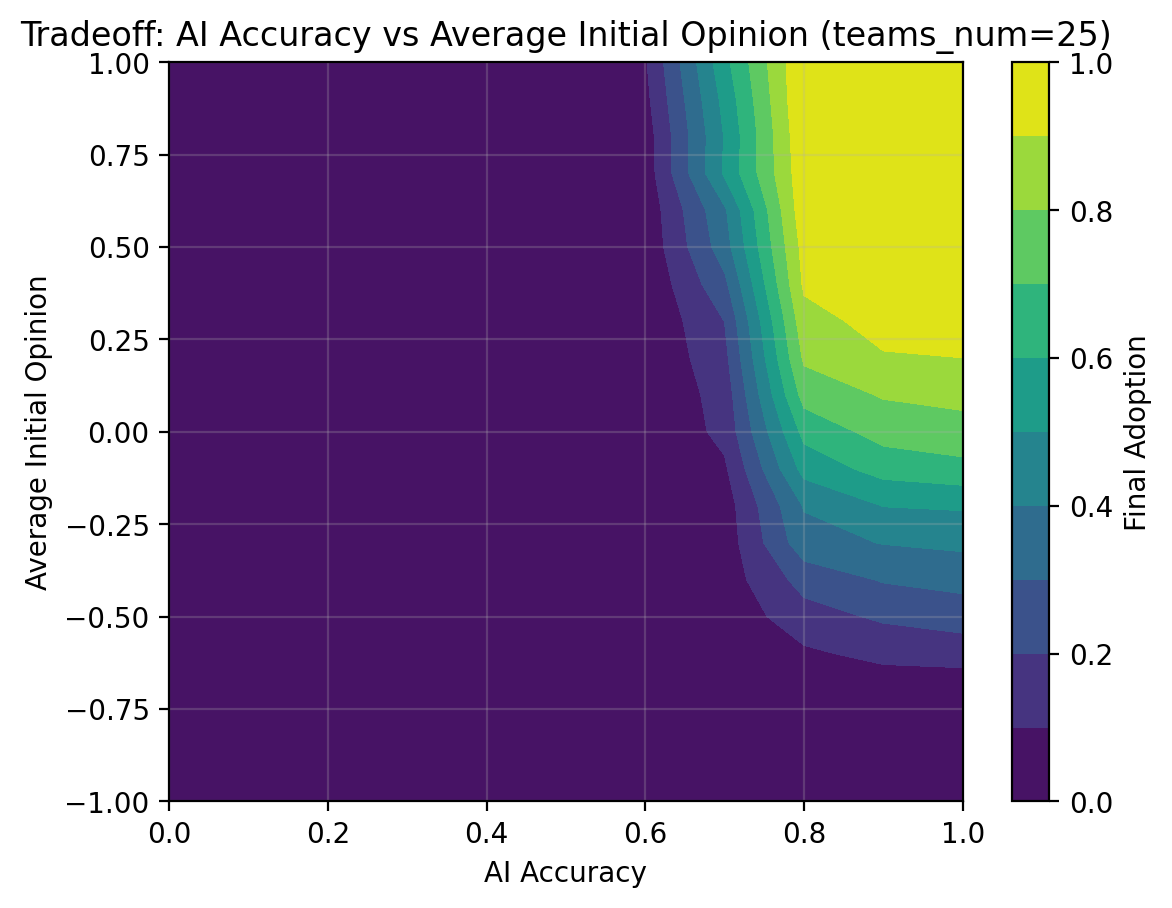
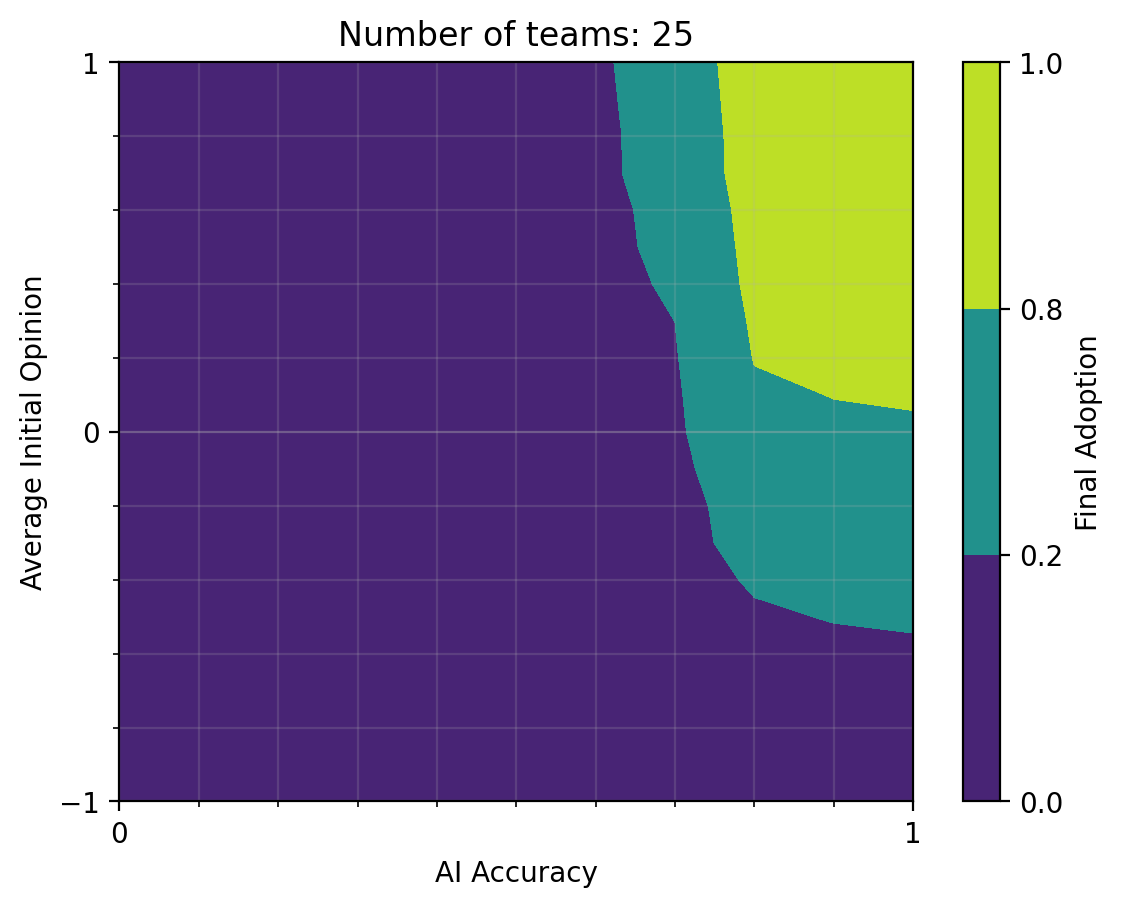
figures updated.

diff --git a/tradeoff.py b/tradeoff.py
@@ -45,6 +45,7 @@ from pathlib import Path
 import numpy as np
 import pandas as pd
 import matplotlib.pyplot as plt
+from matplotlib.ticker import MultipleLocator
 
 from utils import BASE_DIR, load_settings, get_all_model_names
 from config import teams_num_list
@@ -161,13 +162,36 @@ def plot_tradeoff_iso_adoption(
         X, Y = np.meshgrid(x_vals, y_vals)
 
         plt.figure()
-        color_levels = np.linspace(0.0, 1.0, 11)
+        #color_levels = np.linspace(0.0, 1.0, 11)
+        color_levels = np.array([0.0, 0.2, 0.8, 1.0])
         cf = plt.contourf(X, Y, Z, levels=color_levels, vmin=0.0, vmax=1.0)
 
         plt.xlabel("AI Accuracy")
         plt.ylabel("Average Initial Opinion")
-        plt.title(f"Tradeoff: AI Accuracy vs Average Initial Opinion (teams_num={tn})")
-        plt.grid(True, alpha=0.25)
+        #plt.title(f"Tradeoff: AI Accuracy vs Average Initial Opinion (teams_num={tn})")
+        plt.title(f"Number of teams: {tn}")
+        
+        ax = plt.gca()
+
+        # ---- major ticks (labels only) ----
+        ax.set_xticks([0.0, 1.0])
+        ax.set_yticks([-1.0, 0.0, 1.0])
+
+        # ---- minor tick spacing (grid resolution control) ----
+        ax.xaxis.set_minor_locator(MultipleLocator(0.1))   # every 0.1 on x
+        ax.yaxis.set_minor_locator(MultipleLocator(0.2))   # every 0.2 on y
+
+        # ---- grid ----
+        ax.grid(which="minor", alpha=0.2)
+        ax.grid(which="major", alpha=0.4)
+
+        ax.set_xlim(0.0, 1.0)
+        ax.set_ylim(-1.0, 1.0)
+
+        # optional: fix limits
+        #plt.xlim(0.0, 1.0)
+        #plt.ylim(-1.0, 1.0)
+
         cbar = plt.colorbar(cf)
         cbar.set_label("Final Adoption")
 
